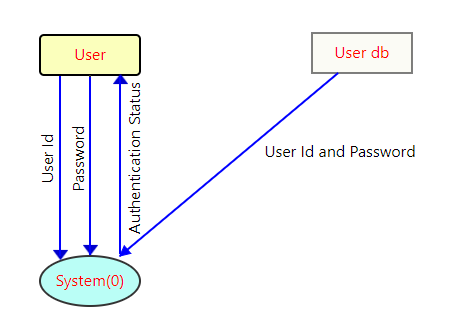
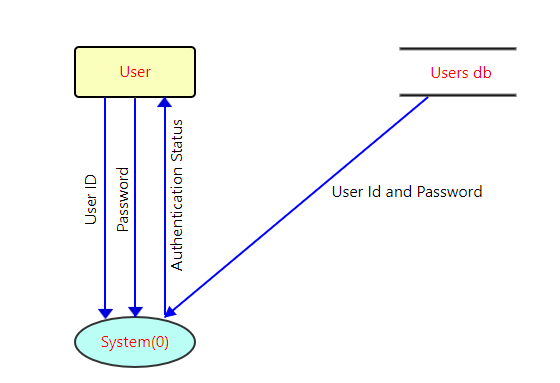
dfd exercises updated

diff --git a/experiment/simulation/js/exercise1.js b/experiment/simulation/js/exercise1.js
@@ -450,7 +450,7 @@ function drawbtex1(){
   var exentity = new joint.shapes.standard.Rectangle();
         
   exentity.position(148, 65);
-  exentity.resize(100, 40);
+  exentity.resize(120, 50);
   exentity.attr({
       body: {
           rx: 4, // add a corner radius
@@ -469,8 +469,8 @@ function drawbtex1(){
 
   var process = new joint.shapes.standard.Ellipse();
         
-  process.position(148, 286);
-  process.resize(100, 50);
+  process.position(148, 335);
+  process.resize(120, 50);
   process.attr({
       body: {
         
@@ -488,28 +488,40 @@ function drawbtex1(){
   process.addTo(graph);
 
 
-  var db = new joint.shapes.standard.Rectangle();
+  
+  var db = new joint.shapes.standard.Image();
+  db.resize(120, 50);
+  db.position(471,65);
+//actor1.position(103, 15);
+db.attr('root/title', 'joint.shapes.standard.BoarderedImage');
+//db.attr('label/text', arrdatastore[0]);
+//db.attr('label/fontSize', 16);
+db.attr('image/xlinkHref', 'images/datastore.png');
+db.addTo(graph); 
+ 
+var dsl = new joint.shapes.standard.Rectangle();
         
-  db.position(420, 63);
-  db.resize(100, 40);
-  db.attr({
-      body: {
-         
-          fill: '#FBFBF5',
-          strokeWidth: 1
-      },
-      label: {
-          text: arrdatastore[0],
-          fill: 'red',
-          fontSize: 16
-      }
-  });
-  db.addTo(graph);
+dsl.position(484, 71);
+dsl.resize(100, 40);
+
+dsl.attr({
+    body: {
+
+        fill: '#FFFFFF',
+        strokeWidth: 0
+    },
+    label: {
+        text: arrdatastore[0],
+        fill: 'red',
+        fontSize: 16
+    }
+});
+dsl.addTo(graph);     
 
   
   var msg1 = new joint.shapes.standard.Rectangle();
         
-  msg1.position(106, 168);
+  msg1.position(111, 209);
   msg1.resize(100, 40);
   msg1.rotate(270);
   msg1.attr({
@@ -528,7 +540,7 @@ function drawbtex1(){
 
  var msg2 = new joint.shapes.standard.Rectangle();
         
-  msg2.position(137, 168);
+  msg2.position(144, 210);
   msg2.resize(100, 40);
   msg2.rotate(270);
   
@@ -550,7 +562,7 @@ function drawbtex1(){
 
  var msg3 = new joint.shapes.standard.Rectangle();
         
-  msg3.position(193,168);
+  msg3.position(206,210);
   msg3.resize(100, 40);
   msg3.rotate(270);
   msg3.attr({
@@ -572,7 +584,7 @@ function drawbtex1(){
 
  var msg4 = new joint.shapes.standard.Rectangle();
         
-  msg4.position(398, 162);
+  msg4.position(414, 200);
   msg4.resize(100, 40);
   //msg1.transform(90);
   msg4.attr({
@@ -591,7 +603,7 @@ function drawbtex1(){
 
   var arrow = new joint.shapes.standard.Image();
   arrow.resize(15, 12);
-  arrow.position(161,279);
+  arrow.position(171,326);
 //actor1.position(103, 15);
 arrow.attr('root/title', 'joint.shapes.standard.BoarderedImage');
 
@@ -600,7 +612,7 @@ arrow.addTo(graph);
 
   var arrow1 = new joint.shapes.standard.Image();
       arrow1.resize(15, 12);
-      arrow1.position(191,274);
+      arrow1.position(201,324);
   //actor1.position(103, 15);
   arrow1.attr('root/title', 'joint.shapes.standard.BoarderedImage');
  
@@ -609,7 +621,7 @@ arrow.addTo(graph);
 
    var arrow2 = new joint.shapes.standard.Image();
       arrow2.resize(15, 12);
-      arrow2.position(221,103);
+      arrow2.position(230,114);
   //actor1.position(103, 15);
   arrow2.attr('root/title', 'joint.shapes.standard.BoarderedImage');
  
@@ -650,7 +662,7 @@ link1.attr({
       'type':'path',
       'stroke-width': 2,
       //'fill': 'blue',
-      'd':'M 0 -30  L 180 -30 L 2 -30  ',
+      'd':'M 0 -30  L 220 -30 L 2 -30  ',
       //'d': 'M 50 -80 L 220 -80 V -80'
   }
   
@@ -683,7 +695,7 @@ link2.attr({
       'type':'path',
       'stroke-width': 2,
       //'fill': 'blue',
-      'd':'M 20 30  L 180 30 L 2 30  ',
+      'd':'M 20 30  L 220 30 L 2 30  ',
       //'d': 'M 50 -80 L 220 -80 V -80'
   }
   
@@ -704,7 +716,7 @@ link2.addTo(graph);
             'type':'path',
             'stroke-width': 2,
             //'fill': 'blue',
-            'd':'M 20 0  L 180 0 L 2 0  ',
+            'd':'M 20 0  L 220 0 L 2 0  ',
             //'d': 'M 50 -80 L 220 -80 V -80'
         }
         
